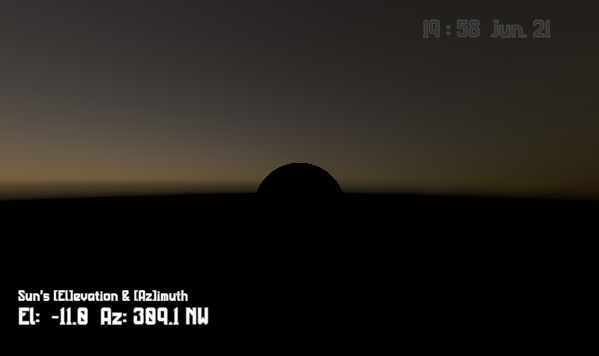
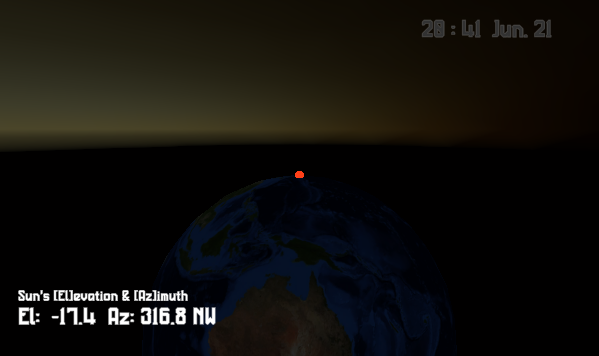
地球儀を画面下に据えて観測地が天頂に来る向きに配置、観測地マーカーを追加
- Sphere: scale 5.2・(0, -2.5, 0)。東京が天頂 +Y・東京の北が +Z になる回転（Directional Light の当たり方＝その場所の昼夜が地球儀の明暗に一致）
- ObserverMarker（Unlit 赤の小球）を Sphere の子として観測地に配置
- Main Camera: (0, 0.9, -5.2)・X 9° 見下ろし（空を残しつつ地球儀の上端＝日本が見える）
- Earth.mat に弱い Emission（夜側が真っ黒にならない）
- README / AGENTS: 配置と向きの決め方を追記、GIF / PNG を撮り直し

Claude-Session: https://claude.ai/code/session_01LevWLowpM7W1EKn5fzuYjZ

diff --git a/README.md b/README.md
@@ -9,6 +9,7 @@ A Unity project that computes the sun's elevation and azimuth from date/time and
 <p align="center">
   <img src="Docs/images/daycycle.gif" alt="疑似時計 3600 倍で 1 日を回したところ（東京・夏至）" width="70%">
 </p>
+<p align="center"><sub>画面下の地球儀は観測地（赤い点＝東京）が天頂に来る向きで置いてあり、Directional Light の当たり方＝その場所の昼夜がそのまま地球儀の明暗になる。</sub></p>
 <p align="center">
   <img src="Docs/images/morning.png" alt="朝（太陽は東）" width="48%">
   <img src="Docs/images/dusk.png" alt="日没後" width="48%">
@@ -35,8 +36,8 @@ A Unity project that computes the sun's elevation and azimuth from date/time and
 | `Scripts/ClockDirecter.cs` | 時計表示 |
 | `Scripts/SunPositionHUD.cs` | 高度・方位・8 方位の表示（`El:  +45.2  Az: 178.3 S`） |
 | `Tests/Editor/SunRotationGeneratorTests.cs` | 東京の四季の参照値（Python `astral`）と 0.5° 以内で一致することを確認する EditMode テスト |
-| `Scenes/SampleScene.unity` | サンプル（Procedural Skybox＋Directional Light＋地球儀） |
-| `Textures/Earth_BlueMarble.png` / `Materials/Earth.mat` | 球に貼った地球のテクスチャ（NASA Blue Marble: Next Generation、2048×1024） |
+| `Scenes/SampleScene.unity` | サンプル。Procedural Skybox＋Directional Light＋地球儀（`Sphere`）。地球儀は観測地が天頂（+Y）・観測地の北が +Z になる向きで置き、子の `ObserverMarker`（赤い点）が観測地 |
+| `Textures/Earth_BlueMarble.png` / `Materials/Earth.mat` / `Materials/ObserverMarker.mat` | 地球儀のテクスチャ（NASA Blue Marble: Next Generation、2048×1024）とマテリアル。夜側が真っ黒にならないよう弱い Emission を入れてある |
 
 （いずれも `Assets/RadianN/Products/Realtime SunSim/` 配下）
 
@@ -60,7 +61,7 @@ var (el, az) = SunRotationGenerator.SunPosition(DateTime.Now, 35.69, 139.69, 9);
 light.transform.rotation = SunRotationGenerator.SunLightRotation(el, az);
 ```
 
-座標系は +Z = 北・+X = 東・+Y = 上、方位は北 0°・東 90°。
+座標系は +Z = 北・+X = 東・+Y = 上、方位は北 0°・東 90°。観測地を変えたら、地球儀の向きとマーカー位置も合わせて回してください（`SimulatorTester` の緯度経度から `Quaternion.Inverse(Quaternion.LookRotation(北方向, 天頂方向))` で求まります。Unity 標準球はテクスチャの u=0.5 が +X、u が増えると +Z 側）。
 
 ---
 

diff --git a/AGENTS.md b/AGENTS.md
@@ -15,7 +15,7 @@
 | `Scripts/ClockDirecter.cs` | 時計表示（TMP）。`clock` に SimulatorTester を繋ぐとその時刻、未指定なら PC 時刻 |
 | `Scripts/SunPositionHUD.cs` | 高度・方位・8 方位の表示 `El:  +45.2  Az: 178.3 S` |
 | `Tests/Editor/SunRotationGeneratorTests.cs` | EditMode テスト。参照値は Python `astral` 3.2 で出した東京の四季（許容 0.5°）。asmdef 無し＝Editor アセンブリ |
-| `Scenes/SampleScene.unity` | 動作確認シーン（`Assets/Realtime GI Lighting.lighting` を使用）。中央の球は `Materials/Earth.mat`（`Textures/Earth_BlueMarble.png` = NASA Blue Marble NG を 2048×1024 に縮小・パブリックドメイン） |
+| `Scenes/SampleScene.unity` | 動作確認シーン（`Assets/Realtime GI Lighting.lighting` を使用）。画面下の地球儀 `Sphere`（scale 5.2・y=-2.5）は `Materials/Earth.mat`（`Textures/Earth_BlueMarble.png` = NASA Blue Marble NG を 2048×1024 に縮小・パブリックドメイン。夜側用に弱い Emission）。**向きは観測地が天頂 +Y・観測地の北が +Z**（`Quaternion.Inverse(LookRotation(北接線, 天頂))`。Unity 標準球は u=0.5 が +X で u 増加＝+Z 回り）、子 `ObserverMarker`（Unlit 赤・観測地の位置）。カメラは (0, 0.9, -5.2)・X 9° 見下ろし。観測地を変えたら地球儀の回転とマーカーも直す（2026-09-26 の `Temp/evals/layout.cs` / `marker.cs` 相当の処理） |
 | `Assets/RadianN/Other Productions/Fonts/PenchantManufacture/` | サブモジュール `PenchantManufacture_ImageAssets/assets/fonts/` からのコピー＋TMP SDF（Dynamic・ASCII 事前登録）。数字系（時計・太陽位置）に使う。**CJK 未収録** |
 | `Assets/RadianN/Other Productions/Fonts/x0y0pxFreeFont/` | サブモジュール `hicchicc.github.io/00ff/` からのコピー＋TMP SDF。**かなのみで漢字は無い**（`太陽高度方位` は欠字）。2026-09-26 に User が見出しも Penchant に変えたので同梱のみ（シーンでは未使用） |
 | `PenchantManufacture_ImageAssets/` / `hicchicc.github.io/` | **git サブモジュール**（フォントの正本。ライセンスは各リポジトリ／配布サイト。clone 後 `git submodule update --init`） |
